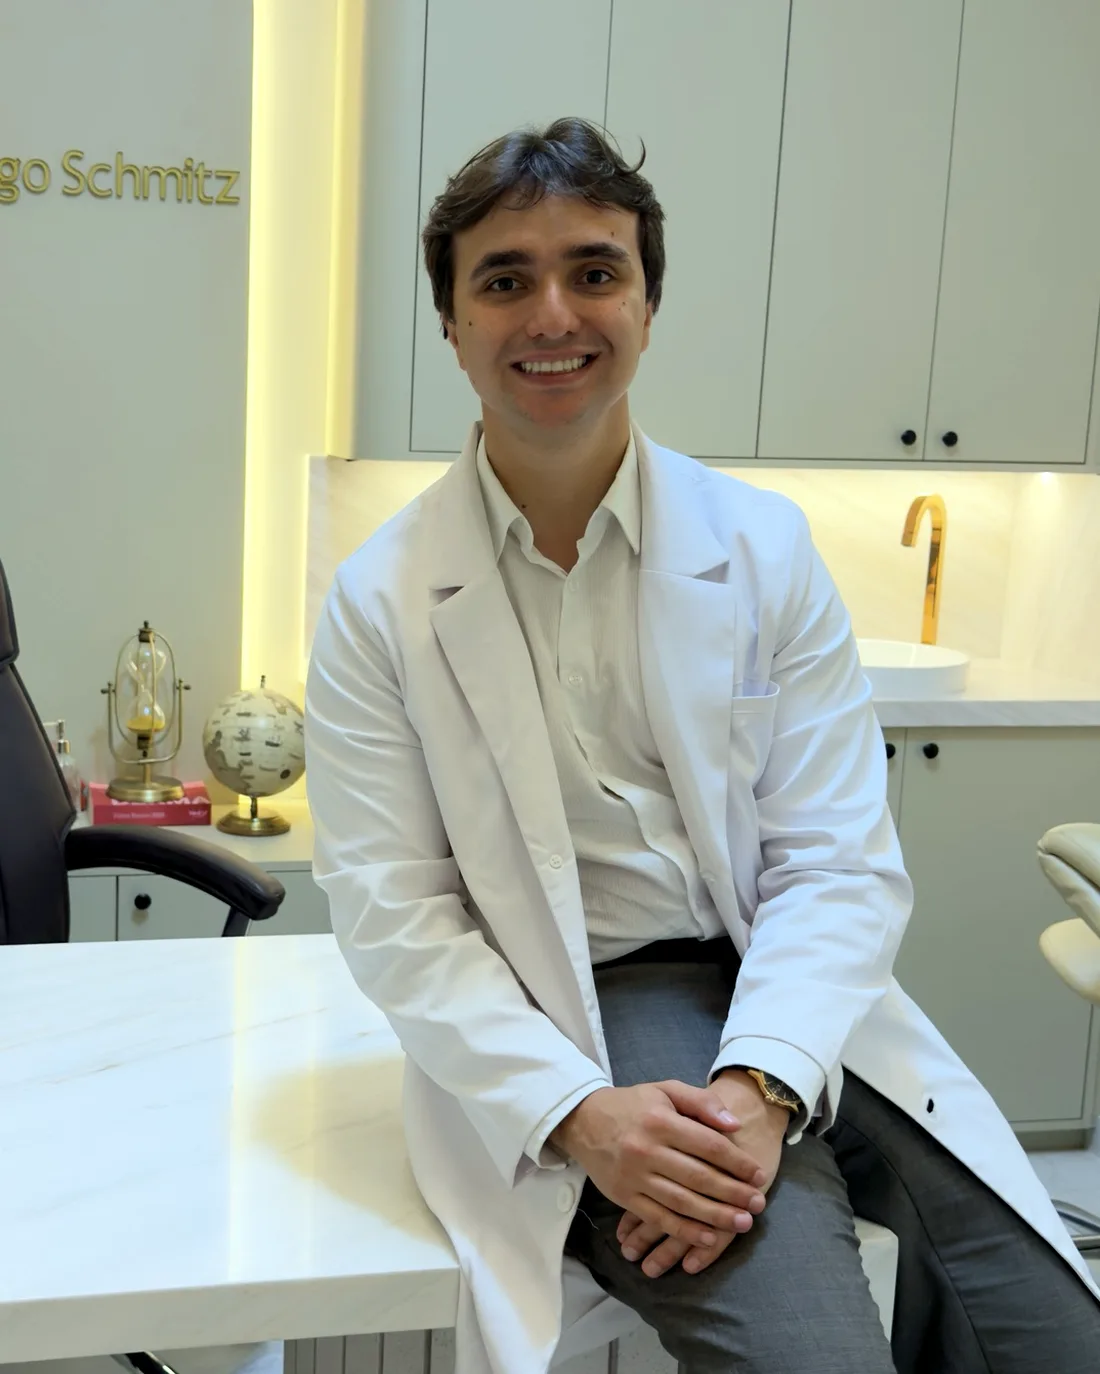
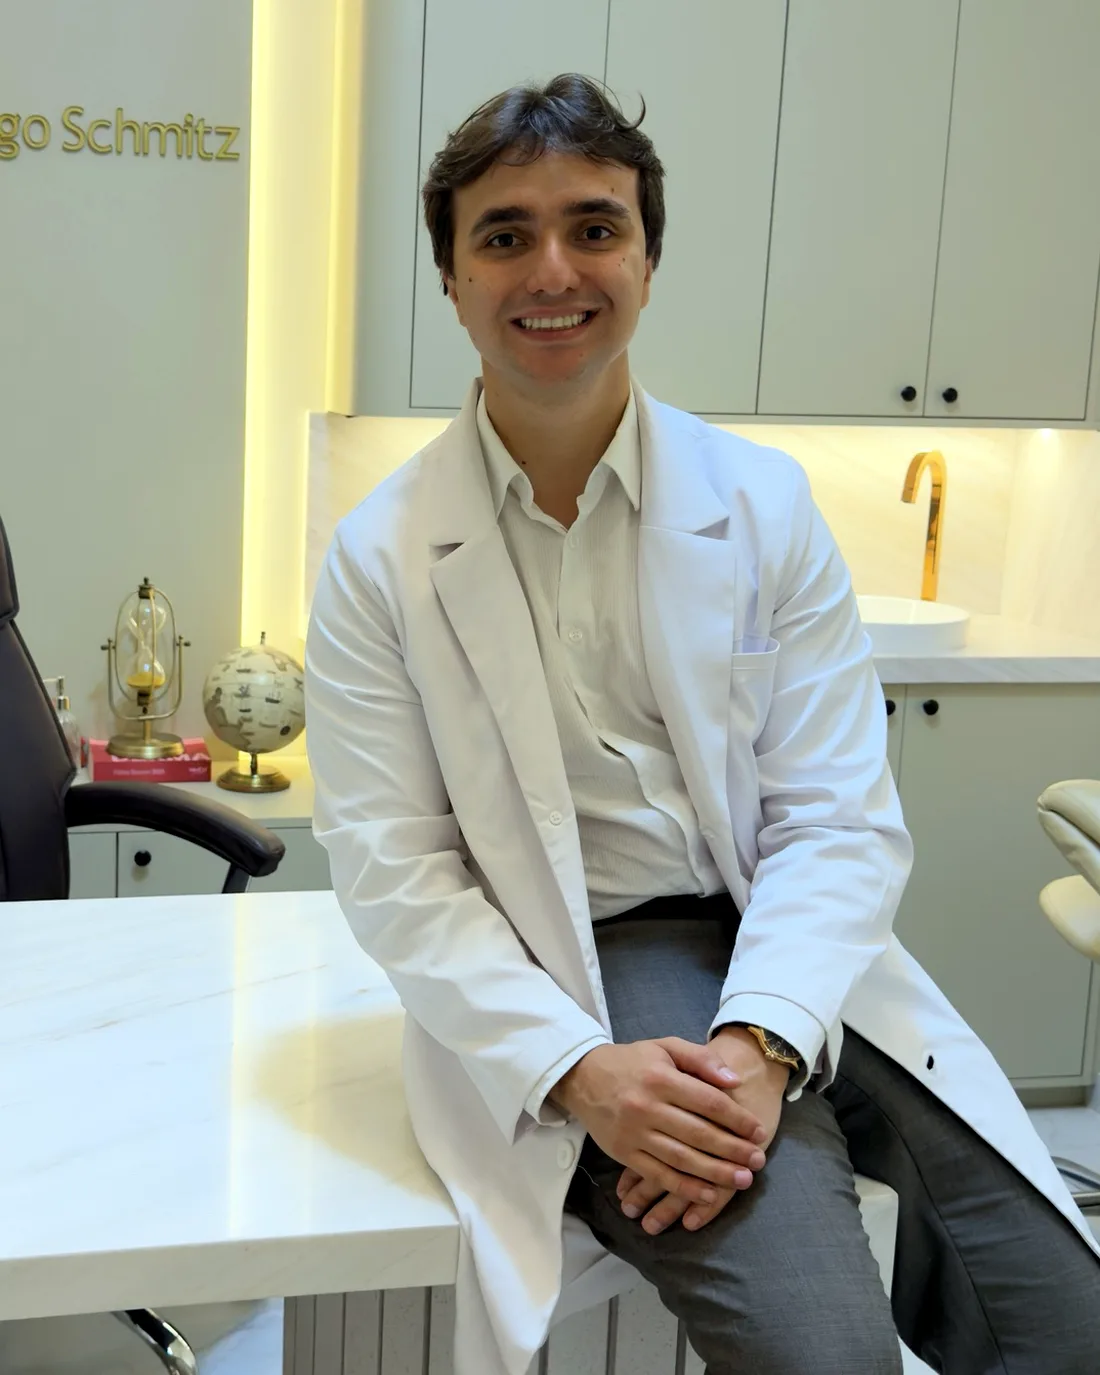
Fotos novas: Pedro e Júlia, lâmpada de Wood, espelho, toxina; recortes centralizados sem cortar a cabeça e ajuste de cor
Claude-Session: https://claude.ai/code/session_01EhM7pqGPxLbPuGPGARjaBR

diff --git a/site/pages/equipe-pedro.html b/site/pages/equipe-pedro.html
@@ -26,9 +26,9 @@
   <div class="wrap">
     <span class="kick" data-fade>No consultório</span>
     <div class="g3" style="margin-top:28px" data-stagger>
-      <div class="ph tall" data-clip><img data-par src="/s/img/pedro-terno.jpg" alt="Dr. Pedro Schmitz de terno, sorrindo" loading="lazy"></div>
-      <div class="ph tall" data-clip><img data-par src="/s/img/pedro-jaleco-mesa.jpg" alt="Dr. Pedro Schmitz de jaleco à mesa do consultório" loading="lazy"></div>
-      <div class="ph tall" data-clip><img data-par src="/s/img/pedro-sorriso.jpg" alt="Dr. Pedro Schmitz em pé no consultório da Curae Santé" loading="lazy"></div>
+      <div class="ph tall" data-clip><img data-par src="/s/img/pedro-wood-luz.jpg" alt="Dr. Pedro Schmitz segurando a lâmpada de Wood acesa" loading="lazy"></div>
+      <div class="ph tall" data-clip><img data-par src="/s/img/pedro-espelho.jpg" alt="Dr. Pedro Schmitz explicando um ponto do rosto diante do espelho" loading="lazy"></div>
+      <div class="ph tall" data-clip><img data-par src="/s/img/pedro-toxina.jpg" alt="Dr. Pedro Schmitz planejando pontos de aplicação em uma ficha, com livro de anatomia aberto" loading="lazy"></div>
     </div>
   </div>
 </section>

diff --git a/site/pages/proc-retirada-de-cisto-lipoma-e-pintas.html b/site/pages/proc-retirada-de-cisto-lipoma-e-pintas.html
@@ -7,7 +7,7 @@
     <p class="lead" data-in>Aquele caroço que cresce devagar, a pinta que mudou ou que incomoda: avaliação, retirada com anestesia local em consultório e análise da peça quando indicado.</p>
     <div class="ctas" data-in><a class="btn gold" href="{{WA:Olá! Quero agendar uma avaliação com o Dr. Pedro Schmitz sobre retirada de cisto, lipoma ou pinta.}}" target="_blank" rel="noopener">{{ICO_WA}} Agendar avaliação</a><a class="btn line" href="#como">Como é feito</a></div>
   </div>
-  <div class="ph tall" data-in><img src="/s/img/bandeja.jpg" alt="Instrumentos cirúrgicos esterilizados sobre campo azul" width="1000" height="1250"></div>
+  <div class="ph tall" data-in><img src="/s/img/pedro-cirurgia.jpg" alt="Dr. Pedro Schmitz com instrumentos de pequena cirurgia no consultório" width="1000" height="1250"></div>
 </div></section>
 
 <section class="pad">

diff --git a/site/pages/proc-toxina-botulinica.html b/site/pages/proc-toxina-botulinica.html
@@ -7,7 +7,7 @@
     <p class="lead" data-in>Suaviza as rugas que aparecem com o movimento: testa, entre as sobrancelhas e pés de galinha. O objetivo é relaxar o músculo, não congelar a expressão.</p>
     <div class="ctas" data-in><a class="btn gold" href="{{WA:Olá! Quero agendar uma avaliação com o Dr. Pedro Schmitz sobre toxina botulínica.}}" target="_blank" rel="noopener">{{ICO_WA}} Agendar avaliação</a><a class="btn line" href="#como">Como é feito</a></div>
   </div>
-  <div class="ph tall" data-in><img src="/s/img/consultorio.jpg" alt="Consultório da Curae Santé, no Kobrasol, em São José/SC" width="1000" height="1250"></div>
+  <div class="ph tall" data-in><img src="/s/img/pedro-toxina.jpg" alt="Dr. Pedro Schmitz planejando os pontos de aplicação em uma ficha de toxina botulínica" width="1000" height="1250"></div>
 </div></section>
 
 <section class="pad">

diff --git a/site/pages/proc-lipoma.html b/site/pages/proc-lipoma.html
@@ -7,7 +7,7 @@
     <p class="lead" data-in>Aquele caroço macio, que mexe sob a pele e cresce devagar. Quase sempre é benigno. Às vezes basta observar; quando incomoda, cresce ou deixa dúvida, a retirada é simples.</p>
     <div class="ctas" data-in><a class="btn gold" href="{{WA:Olá! Quero agendar uma avaliação com o Dr. Pedro Schmitz sobre lipoma.}}" target="_blank" rel="noopener">{{ICO_WA}} Agendar avaliação</a><a class="btn line" href="#como">Como é feito</a></div>
   </div>
-  <div class="ph tall" data-in><img src="/s/img/bandeja.jpg" alt="Instrumentos cirúrgicos esterilizados sobre campo azul" width="1000" height="1250"></div>
+  <div class="ph tall" data-in><img src="/s/img/pedro-cirurgia.jpg" alt="Dr. Pedro Schmitz com instrumentos de pequena cirurgia no consultório" width="1000" height="1250"></div>
 </div></section>
 
 <section class="pad">

diff --git a/site/pages/proc-preenchimento-acido-hialuronico.html b/site/pages/proc-preenchimento-acido-hialuronico.html
@@ -7,7 +7,7 @@
     <p class="lead" data-in>Repõe volume e sustentação onde o rosto perdeu estrutura. Bem indicado, suaviza sulcos e olheiras e define contornos sem mudar quem você é.</p>
     <div class="ctas" data-in><a class="btn gold" href="{{WA:Olá! Quero agendar uma avaliação com o Dr. Pedro Schmitz sobre preenchimento com ácido hialurônico.}}" target="_blank" rel="noopener">{{ICO_WA}} Agendar avaliação</a><a class="btn line" href="#como">Como é feito</a></div>
   </div>
-  <div class="ph tall" data-in><img src="/s/img/recepcao.jpg" alt="Recepção da Curae Santé, no Kobrasol, em São José/SC" width="1000" height="1250"></div>
+  <div class="ph tall" data-in><img src="/s/img/pedro-espelho.jpg" alt="Dr. Pedro Schmitz explicando um ponto do rosto diante do espelho" width="1000" height="1250"></div>
 </div></section>
 
 <section class="pad">

diff --git a/site/pages/sobre.html b/site/pages/sobre.html
@@ -14,7 +14,7 @@
       <p class="lead" data-fade>A Curae Santé nasceu da vontade de fazer a consulta que gostaríamos de receber: com tempo, escuta de verdade e investigação cuidadosa.</p>
       <p data-fade>Atuamos em saúde clínica, emagrecimento, saúde hormonal feminina, pele e cabelo, sempre com plano individualizado e linguagem clara. Sem promessas: medicina feita com presença.</p>
     </div>
-    <div><div class="ph tall" data-clip><img data-par src="/s/img/fachada.jpg" alt="Fachada da Curae Santé Clínica Médica" loading="lazy"></div></div>
+    <div><div class="ph tall" data-clip><img data-par src="/s/img/pedro-julia-jaleco.jpg" alt="Dr. Pedro Schmitz e Dra. Júlia Schmitz na recepção da Curae Santé" loading="lazy"></div></div>
   </div>
 </section>
 

diff --git a/site/pages/equipe.html b/site/pages/equipe.html
@@ -32,6 +32,16 @@
 </section>
 
 <section class="pad cr">
+  <div class="wrap">
+    <span class="kick" data-fade>Juntos na Curae Santé</span>
+    <div class="g2" style="margin-top:28px;gap:24px" data-stagger>
+      <div class="ph tall" data-clip><img data-par src="/s/img/pedro-julia-terno.jpg" alt="Dr. Pedro Schmitz e Dra. Júlia Schmitz em frente ao letreiro da clínica" loading="lazy"></div>
+      <div class="ph tall" data-clip><img data-par src="/s/img/pedro-julia-olhar.jpg" alt="Dr. Pedro Schmitz e Dra. Júlia Schmitz na recepção da Curae Santé" loading="lazy"></div>
+    </div>
+  </div>
+</section>
+
+<section class="pad cr">
   <div class="wrap g2">
     <div>
       <span class="kick" data-fade>Como trabalhamos</span>

diff --git a/site/pages/inicio.html b/site/pages/inicio.html
@@ -78,7 +78,7 @@
     <span class="kick" data-fade>Equipe médica</span>
     <h2 data-split>Quem cuida de você</h2>
     <div class="doc" style="margin-top:40px">
-      <div class="ph tall" data-clip><img data-par src="/s/img/pedro-consultorio.jpg" alt="Dr. Pedro Schmitz sentado na mesa do consultório da Curae Santé" loading="lazy"></div>
+      <div class="ph tall" data-clip><img data-par src="/s/img/pedro-curae.jpg" alt="Dr. Pedro Schmitz de jaleco, de braços cruzados, em frente ao letreiro da Curae Santé" loading="lazy"></div>
       <div data-fade>
         <span class="crm">Médico · CRM/SC 38229</span>
         <h3 style="font-size:clamp(40px,5vw,60px);margin-top:10px">Dr. Pedro Schmitz</h3>

diff --git a/site/_procedimentos.py b/site/_procedimentos.py
@@ -9,7 +9,7 @@ MED = {
 PROCS = [
  {
   "slug": "toxina-botulinica", "nome": "Toxina botulínica", "kick": "Rugas de expressão",
-  "foto": "/s/img/consultorio.jpg", "assunto": "toxina botulínica",
+  "foto": "/s/img/pedro-toxina.jpg", "assunto": "toxina botulínica",
   "title": "Toxina botulínica em São José/SC | Curae Santé",
   "description": "Toxina botulínica para rugas de expressão da testa, entre as sobrancelhas e ao redor dos olhos. Como funciona, riscos e cuidados. São José/SC.",
   "lead": "Suaviza as rugas que aparecem com o movimento: testa, entre as sobrancelhas e pés de galinha. O objetivo é relaxar o músculo, não congelar a expressão.",
@@ -28,7 +28,7 @@ PROCS = [
  },
  {
   "slug": "preenchimento-acido-hialuronico", "nome": "Preenchimento com ácido hialurônico", "kick": "Volume e sustentação",
-  "foto": "/s/img/recepcao.jpg", "assunto": "preenchimento com ácido hialurônico",
+  "foto": "/s/img/pedro-espelho.jpg", "assunto": "preenchimento com ácido hialurônico",
   "title": "Preenchimento com ácido hialurônico em São José/SC",
   "description": "Preenchimento com ácido hialurônico para sulcos, malar, lábios, olheiras e contorno. Indicação, como é feito, riscos e cuidados. Curae Santé, São José/SC.",
   "lead": "Repõe volume e sustentação onde o rosto perdeu estrutura. Bem indicado, suaviza sulcos e olheiras e define contornos sem mudar quem você é.",
@@ -65,7 +65,7 @@ PROCS = [
  },
  {
   "slug": "retirada-de-cisto-lipoma-e-pintas", "nome": "Retirada de cistos, lipomas e pintas", "kick": "Pequenas cirurgias de pele",
-  "foto": "/s/img/bandeja.jpg", "assunto": "retirada de cisto, lipoma ou pinta",
+  "foto": "/s/img/pedro-cirurgia.jpg", "assunto": "retirada de cisto, lipoma ou pinta",
   "title": "Retirada de cisto, lipoma e pintas em São José/SC | Curae Santé",
   "description": "Retirada de cisto sebáceo, lipoma e pintas com anestesia local, em consultório, com biópsia quando indicada. Kobrasol, São José/SC.",
   "lead": "Aquele caroço que cresce devagar, a pinta que mudou ou que incomoda: avaliação, retirada com anestesia local em consultório e análise da peça quando indicado.",
@@ -182,7 +182,7 @@ PROCS += [
  },
  {
   "slug": "lipoma", "nome": "Lipoma", "kick": "Pequena cirurgia",
-  "foto": "/s/img/bandeja.jpg", "assunto": "lipoma",
+  "foto": "/s/img/pedro-cirurgia.jpg", "assunto": "lipoma",
   "title": "Retirada de lipoma em São José/SC | Curae Santé",
   "description": "Lipoma: quando observar, quando investigar e como é a retirada com anestesia local, em consultório. Kobrasol, São José/SC.",
   "lead": "Aquele caroço macio, que mexe sob a pele e cresce devagar. Quase sempre é benigno. Às vezes basta observar; quando incomoda, cresce ou deixa dúvida, a retirada é simples.",
@@ -254,7 +254,7 @@ PROCS += [
  },
 ]
 
-ALT = {"/s/img/consultorio.jpg": "Consultório da Curae Santé, no Kobrasol, em São José/SC", "/s/img/recepcao.jpg": "Recepção da Curae Santé, no Kobrasol, em São José/SC", "/s/img/pele.jpg": "Imagem ilustrativa de cuidado com a pele", "/s/img/dra-julia.jpg": "Dra. Júlia Schmitz, médica da Curae Santé", "/s/img/pes.jpg":"Pés descalços sobre piso de madeira","/s/img/maos.jpg":"Mãos de mulher em luz suave","/s/img/queratose.jpg":"Pele vista de perto","/s/img/bandeja.jpg": "Instrumentos cirúrgicos esterilizados sobre campo azul"}
+ALT = {"/s/img/pedro-toxina.jpg": "Dr. Pedro Schmitz planejando os pontos de aplicação em uma ficha de toxina botulínica", "/s/img/pedro-espelho.jpg": "Dr. Pedro Schmitz explicando um ponto do rosto diante do espelho", "/s/img/pedro-cirurgia.jpg": "Dr. Pedro Schmitz com instrumentos de pequena cirurgia no consultório", "/s/img/consultorio.jpg": "Consultório da Curae Santé, no Kobrasol, em São José/SC", "/s/img/recepcao.jpg": "Recepção da Curae Santé, no Kobrasol, em São José/SC", "/s/img/pele.jpg": "Imagem ilustrativa de cuidado com a pele", "/s/img/dra-julia.jpg": "Dra. Júlia Schmitz, médica da Curae Santé", "/s/img/pes.jpg":"Pés descalços sobre piso de madeira","/s/img/maos.jpg":"Mãos de mulher em luz suave","/s/img/queratose.jpg":"Pele vista de perto","/s/img/bandeja.jpg": "Instrumentos cirúrgicos esterilizados sobre campo azul"}
 
 def li(items): return ''.join(f'<li>{x}</li>' for x in items)
 
